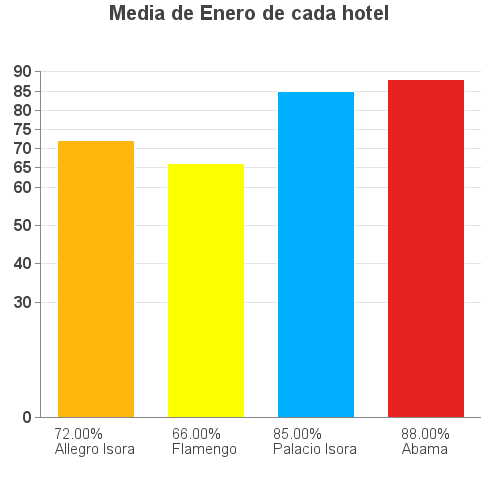
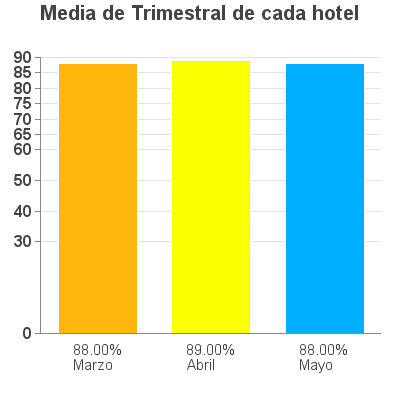
terminado el apartado trimestral

diff --git a/pages/ocupacion/ocupacion.php b/pages/ocupacion/ocupacion.php
@@ -295,15 +295,159 @@
                           //$year ="2017";
                           //$mes="Enero";
                           //echo "$hotel $mes $year $primer_mes";
-/*
+
                           if($mes =="Trimestral"){
-                            $hotel=="";
-                            $mes="";
-                            $year="";
 
-                            echo "hola";
+                            if($primer_mes=="Enero"){
+                              $fecha="$year/01/01";
+                              $fecha_final="$year/03/01";
+                            }
+                            else if($primer_mes=="Febrero"){
+                              $fecha="$year/02/01";
+                              $fecha_final="$year/04/01";
+                            }
+                            else if($primer_mes=="Marzo"){
+                              $fecha="$year/03/01";
+                              $fecha_final="$year/05/01";
+                            }
+                            else if($primer_mes=="Abril"){
+                              $fecha="$year/04/01";
+                              $fecha_final="$year/06/01";
+                            }
+                            else if($primer_mes=="Mayo"){
+                              $fecha="$year/05/01";
+                              $fecha_final="$year/07/01";
+                            }
+                            else if($primer_mes=="Junio"){
+                              $fecha="$year/06/01";
+                              $fecha_final="$year/08/01";
+                            }
+                            else if($primer_mes=="Julio"){
+                              $fecha="$year/07/01";
+                              $fecha_final="$year/09/01";
+                            }
+                            else if($primer_mes=="Agosto"){
+                              $fecha="$year/08/01";
+                              $fecha_final="$year/10/01";
+                            }
+                            else if($primer_mes=="Septiembre"){
+                              $fecha="$year/09/01";
+                              $fecha_final="$year/11/01";
+                            }
+                            else if($primer_mes=="Octubre"){
+                              $fecha="$year/10/01";
+                              $fecha_final="$year/12/01";
+                            }
+                            else if($primer_mes=="Noviembre"){
+                              $fecha="$year/11/01";
+                              $year_dos=$year+1;
+                              $fecha_final="$year_dos/01/01";
+                            }
+                            else if($primer_mes=="Diciembre"){
+                              $fecha="$year/12/01";
+                              $year_dos=$year+1;
+                              $fecha_final="$year_dos/02/01";
+                            }
 
-                          }*/
+
+                            if($hotel != "Todos" || $hotel!= ""){
+                              $grafica = false;
+                              $consulta = "SELECT mes, CAST(AVG(ocupacion) AS DECIMAL(10,2)) AS ocupacion
+                                           FROM ocupacion_hoteles
+                                           WHERE hotel = '".$hotel."' AND fecha BETWEEN '".$fecha."' AND '".$fecha_final."'
+                                           GROUP BY mes
+                                           ORDER BY fecha";
+
+                               $trimestral = mysqli_query($link,$consulta);
+                               if(mysqli_num_rows($trimestral)>0){
+                                 $grafica=true;
+                                 echo"
+                                 <table class='col s12 m4 l4'>
+                                  <thead>
+                                    <tr>
+                                      <th data-field='name'>Mes</th>
+                                      <th data-field='name'>Media ocupacional</th>
+                                    </tr>
+                                  </thead>
+                                  <tbody>
+                                ";
+                                $array_ocupacion = array();
+                                $array_mes=array();
+                                 while($fila=mysqli_fetch_assoc($trimestral)){
+                                   echo "
+                                   <tr>
+                                     <td>".$fila['mes']."</td>
+                                     <td>".$fila['ocupacion']."%</td>
+                                   </tr>
+                                   ";
+                                   array_push($array_ocupacion,$fila['ocupacion']);
+                                   array_push($array_mes,$fila['mes']);
+                                 }
+                                 echo "
+                                   </tbody>
+                                 </table>
+                                 ";
+                               }
+
+                               if($grafica==true){
+                                 require_once ('../../jpgraph/src/jpgraph.php');
+                                 require_once ('../../jpgraph/src/jpgraph_bar.php');
+
+                                 // Some data
+                                 $data1y=$array_ocupacion;
+
+
+                                 // Create the graph. These two calls are always required
+                                 $graph = new Graph(400,400,'auto');
+                                 $graph->SetScale("textlin");
+
+                                 $theme_class=new UniversalTheme;
+                                 $graph->SetTheme($theme_class);
+
+                                 $graph->yaxis->SetTickPositions(array(0,30,40,50,60,65,70,75,80,85,90,95,100));
+                                 $graph->yaxis->SetFont(FF_ARIAL,FS_BOLD,12);
+                                 $graph->SetBox(false);
+
+                                 $graph->ygrid->SetFill(false);
+                                 $graph->xaxis->SetTickLabels(array($array_ocupacion[0]."%\n".$array_mes[0],$array_ocupacion[1]."%\n".$array_mes[1],$array_ocupacion[2]."%\n".$array_mes[2]));
+                                 //$graph->xaxis->SetTickLabels(array(10,25,36,10));
+                                 $graph->xaxis->SetFont(FF_ARIAL,FS_NORMAL,11);
+                                 $graph->yaxis->HideLine(false);
+                                 $graph->yaxis->HideTicks(false,false);
+
+                                 // Create the bar plots
+                                 $b1plot = new BarPlot($data1y);
+
+
+                                 // Create the grouped bar plot
+                                 $gbplot = new GroupBarPlot(array($b1plot));
+                                 // ...and add it to the graPH
+                                 $graph->Add($gbplot);
+
+
+                                 $b1plot->SetColor("white");
+                                 $b1plot->SetFillColor(array("#FFB70E","#FCFF00","#00AFFF"));
+
+                                 $graph->title->Set("Media de ".$mes." de cada hotel");
+                                 $graph->title->SetFont(FF_ARIAL,FS_BOLD,15);
+                                 // Display the graph
+                                 $graph->Stroke("../../images/graficas/grafica1.jpg");
+
+                                 echo "
+                                   <div class='col s12 m8 l8'>
+                                      <img src='../../images/graficas/grafica1.jpg'/>
+                                   </div>
+
+
+                                   ";
+                               }
+                            }
+
+
+                          }
+
+
+                        else{
 
                           //Cuando se selecciona un hotel
                          if($hotel != 'Todos'){
@@ -670,7 +814,7 @@
 
                             }
                           }
-
+                        }
                         ?>
 
 
@@ -744,6 +888,8 @@
         document.getElementById('mes_consulta').value = val;
         if(val =="Trimestral")
           document.getElementById('primer_mes_select').style.display="block";
+        else
+          document.getElementById('primer_mes_select').style.display="none";
 
       }
       function primer_mes(val){

diff --git a/pages/ocupacion/add_ocupacion.php b/pages/ocupacion/add_ocupacion.php
@@ -32,7 +32,7 @@ if(isset($_SESSION['usuario'])) {
   else if($mes=="Mayo"){
     $num_mes="05";
   }
-  else if($mes=="Juni"){
+  else if($mes=="Junio"){
     $num_mes="06";
   }
   else if($mes=="Julio"){
